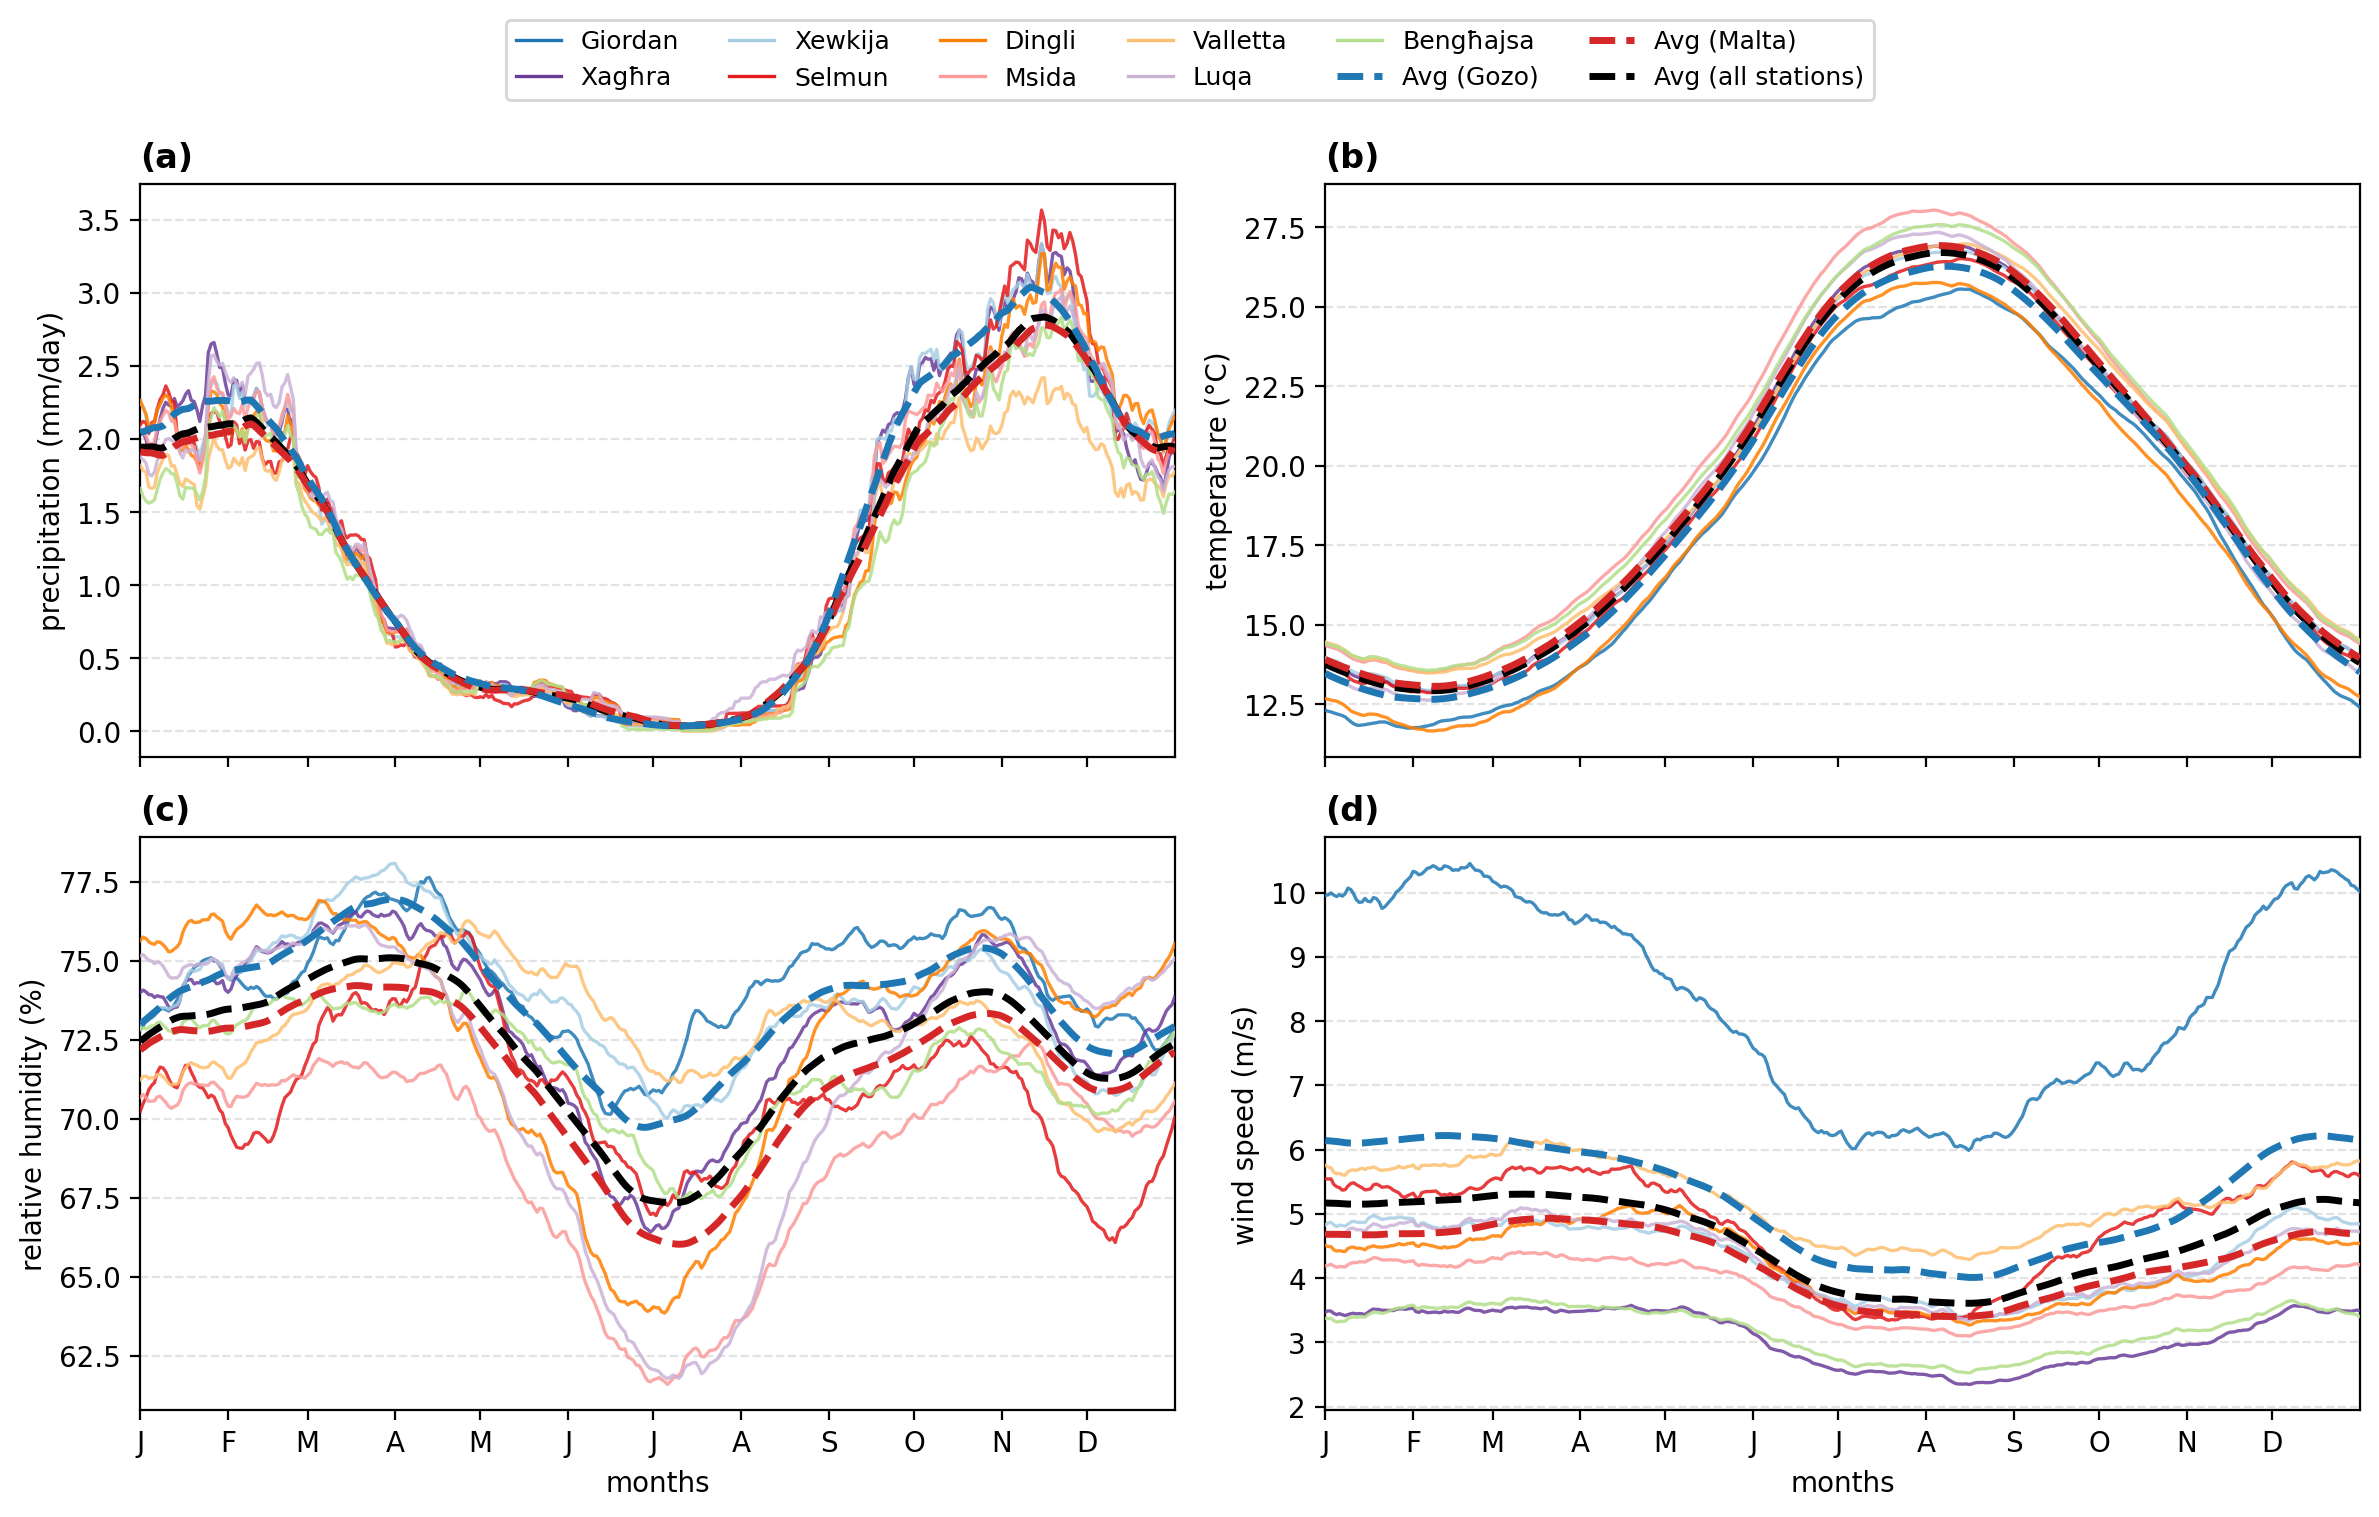
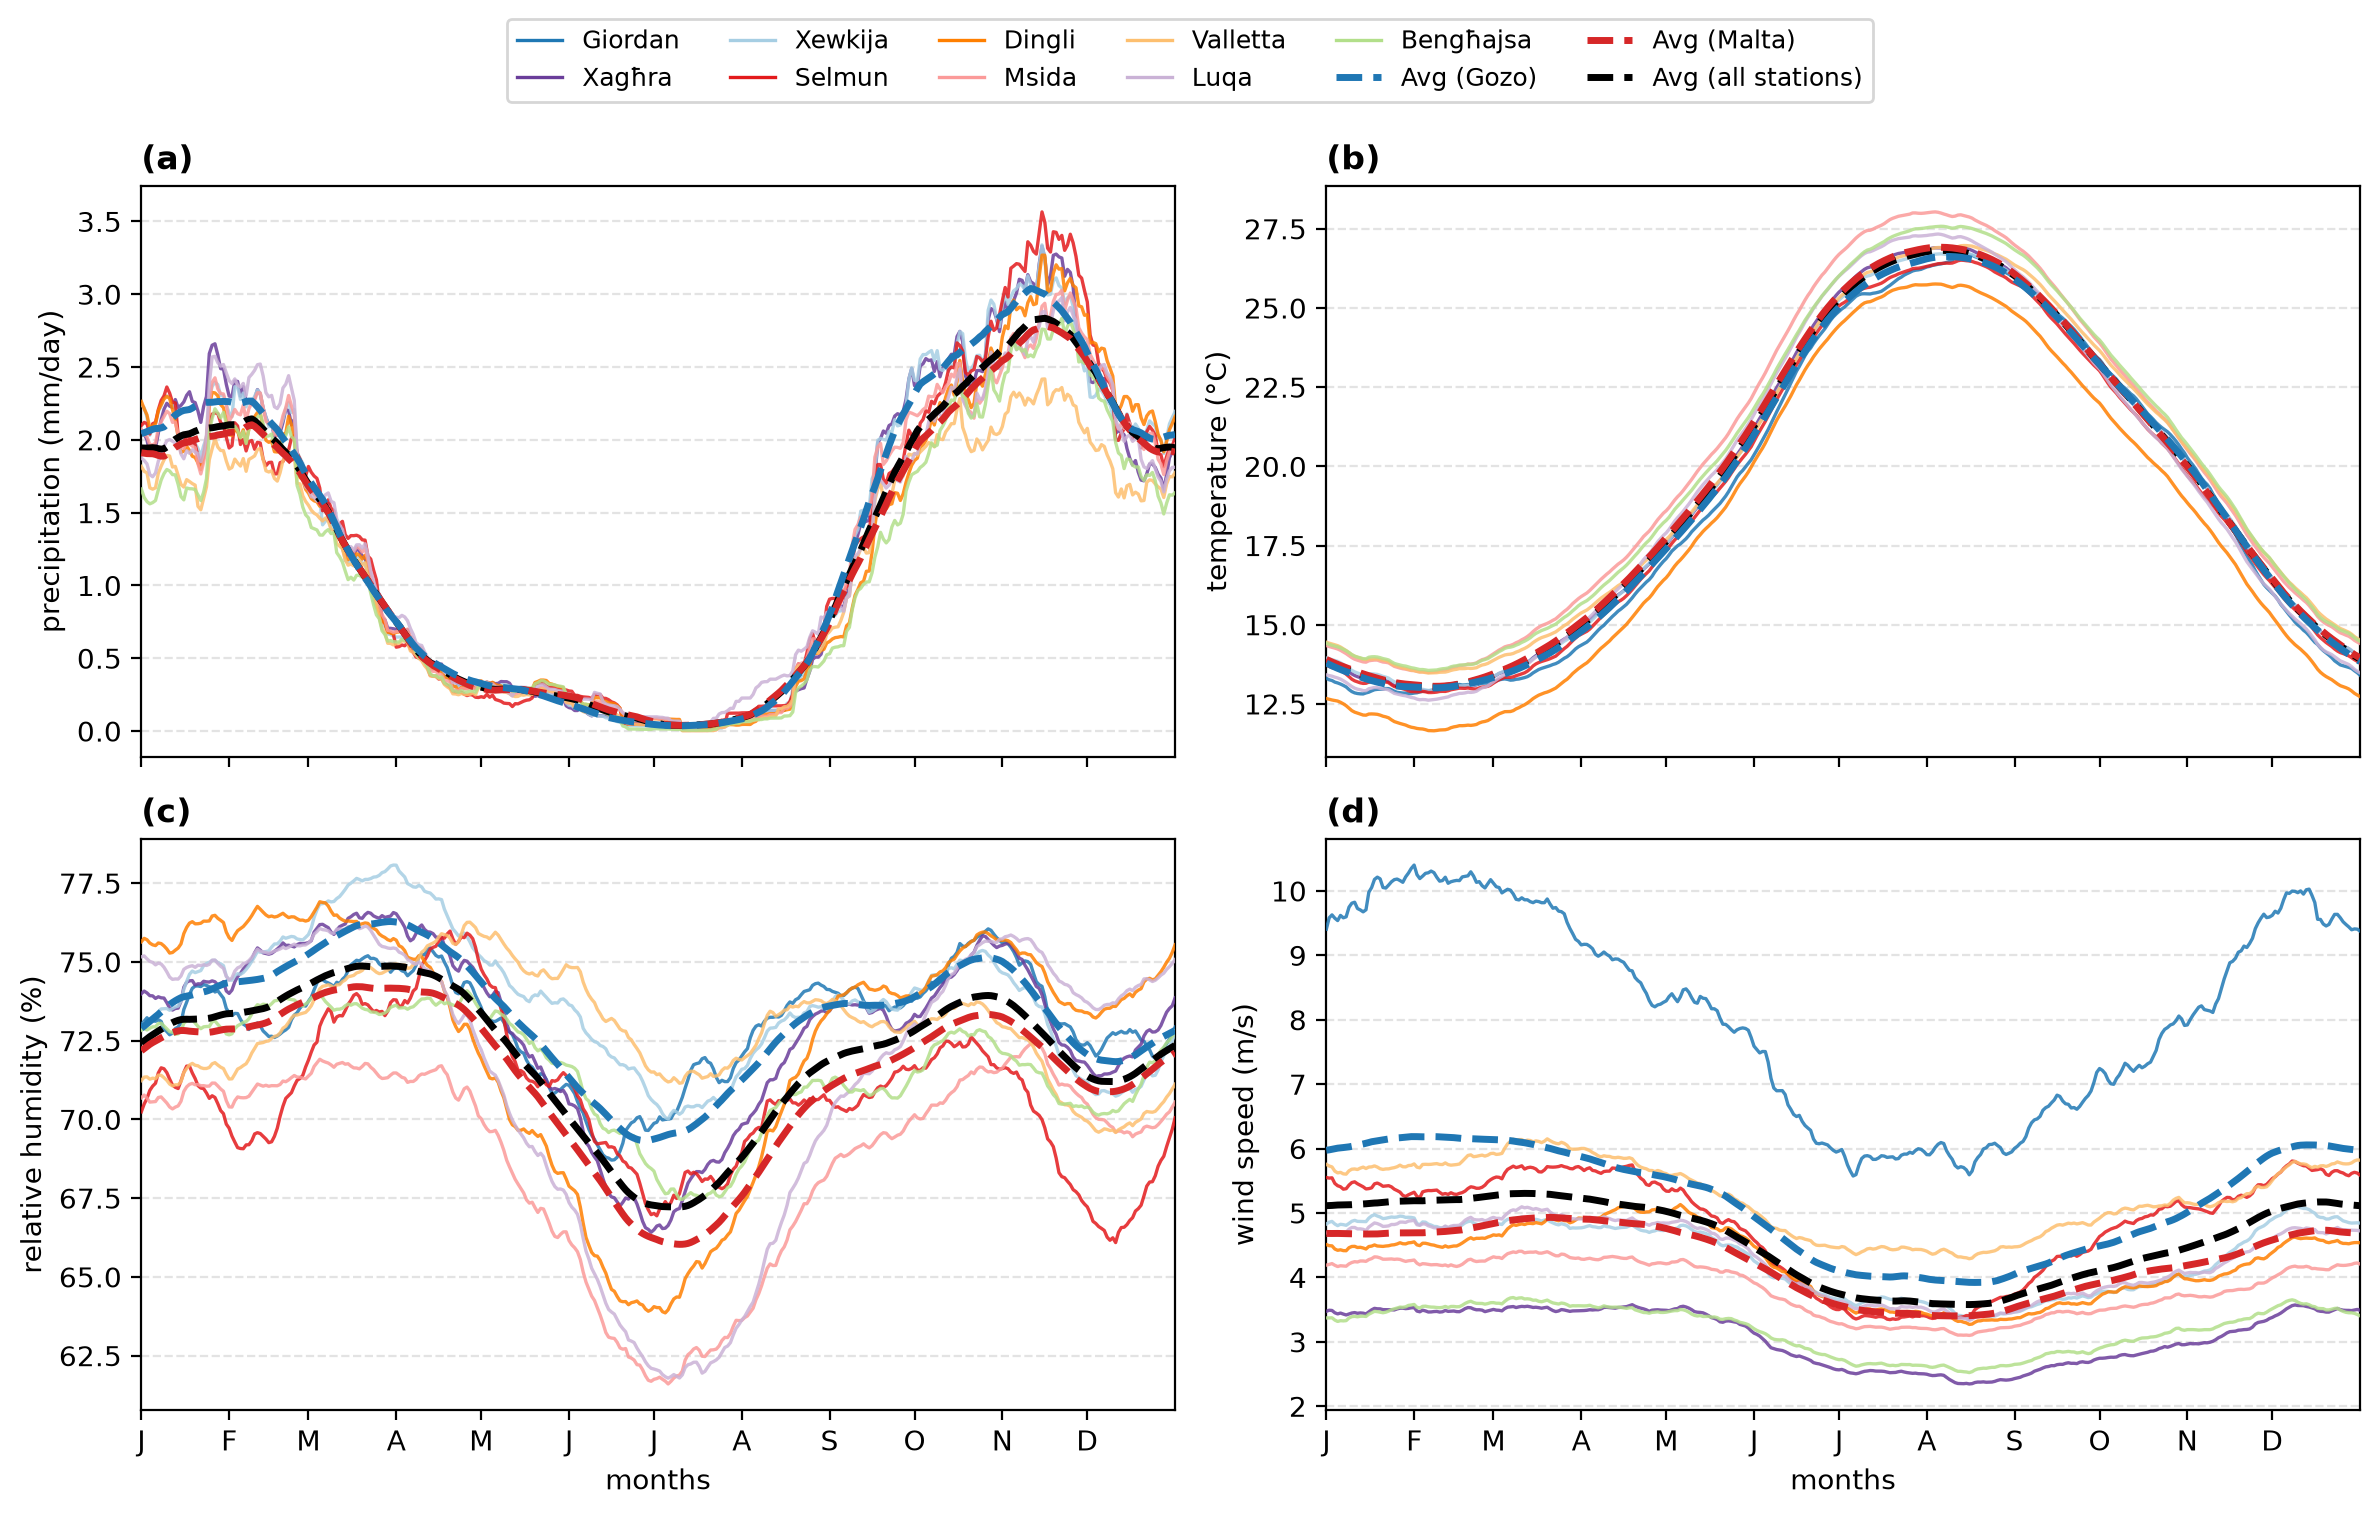
correcting scripts & images for Giordan
Giordan data was not starting from 2007/01/01 like the rest of the stations. The scripts have been fixed to solve this mistake

diff --git a/3.3_Spatial-variability/Fig8_spatial_stats_panel.py b/3.3_Spatial-variability/Fig8_spatial_stats_panel.py
@@ -142,6 +142,7 @@ def load_station_series(abbr, varname):
     try:
         df = pd.read_csv(filepath, header=0)
         df[DATE_COL] = pd.to_datetime(df[DATE_COL], dayfirst=True, errors="coerce")
+        df = df[df[DATE_COL] >= pd.Timestamp("2007-01-01")]
         col = COL_MAP.get(varname)
         if col is None or col not in df.columns:
             norm = lambda s: s.lower().replace(" ", "_")

diff --git a/3.1_Station-climatologies/boxwhisker/basic-stats.py b/3.1_Station-climatologies/boxwhisker/basic-stats.py
@@ -37,7 +37,8 @@ def load_mia(station_name):
     # Parse 'Date' and Normalize (ensure it is 00:00:00)
     if 'Date' in df.columns:
         df['Date'] = pd.to_datetime(df['Date'], dayfirst=True, errors='coerce').dt.normalize()       
-    
+        df = df[df['Date'] >= pd.Timestamp("2007-01-01")]
+   
     return df
 
 def get_basic_stats(series, mode="basic"):

diff --git a/4.2_Urban-heat-island/Fig11_uhi_ac_panel.py b/4.2_Urban-heat-island/Fig11_uhi_ac_panel.py
@@ -66,6 +66,7 @@ def load_daily(abbr):
     try:
         df = pd.read_csv(fp, header=0)
         df[DATE_COL] = pd.to_datetime(df[DATE_COL], dayfirst=True, errors="coerce")
+        df = df[df[DATE_COL] >= pd.Timestamp("2007-01-01")]
         return df.dropna(subset=[DATE_COL]).set_index(DATE_COL)
     except Exception:
         return None

diff --git a/3.1_Station-climatologies/Fig6_ac_indices_panel.py b/3.1_Station-climatologies/Fig6_ac_indices_panel.py
@@ -166,6 +166,7 @@ def load_daily(station):
     if DATE_COL not in df.columns:
         return None
     df[DATE_COL] = pd.to_datetime(df[DATE_COL], dayfirst=True, errors="coerce")
+    df = df[df[DATE_COL] >= pd.Timestamp("2007-01-01")]
     return df.dropna(subset=[DATE_COL]).set_index(DATE_COL)
 
 def has_columns(df, cols):

diff --git a/3.1_Station-climatologies/Fig5_ac_summary_panel.py b/3.1_Station-climatologies/Fig5_ac_summary_panel.py
@@ -110,6 +110,7 @@ def load_daily(station):
     if DATE_COL not in df.columns:
         return None
     df[DATE_COL] = pd.to_datetime(df[DATE_COL], dayfirst=True, errors="coerce")
+    df = df[df[DATE_COL] >= pd.Timestamp("2007-01-01")]
     return df.dropna(subset=[DATE_COL])
 
 def find_col(df, varname, station):
